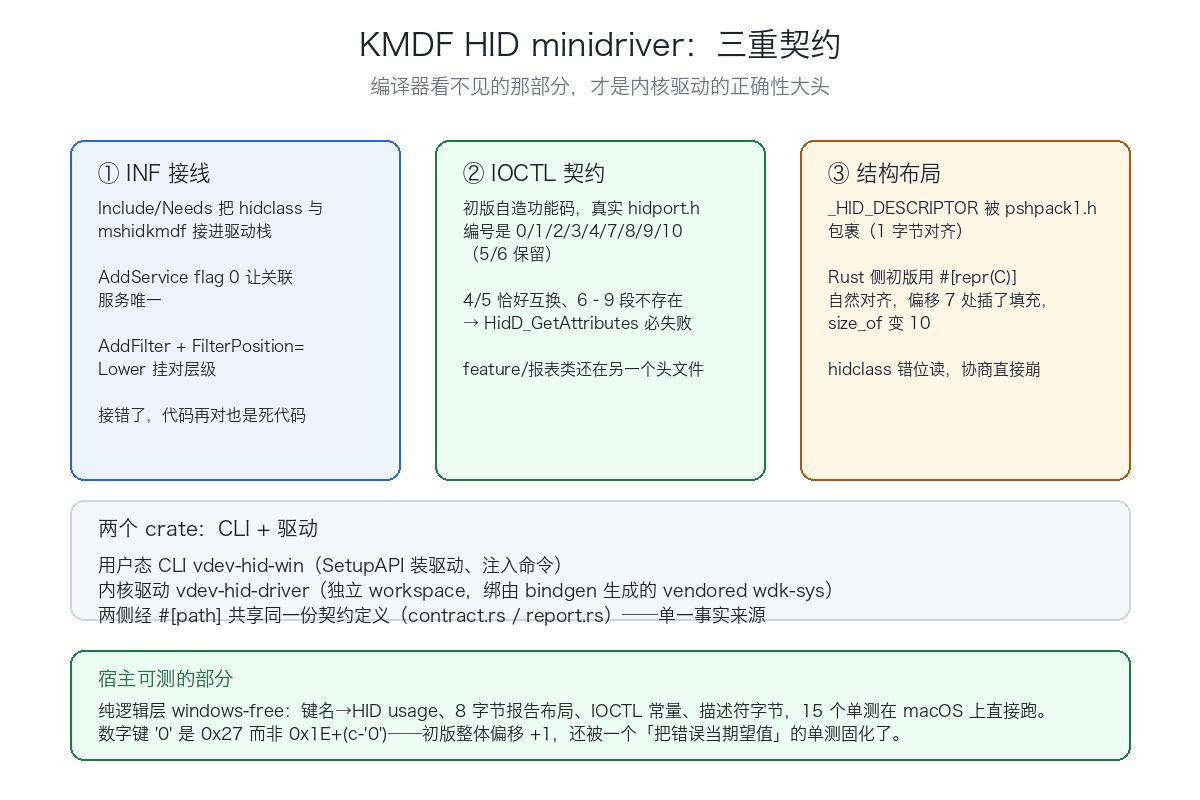
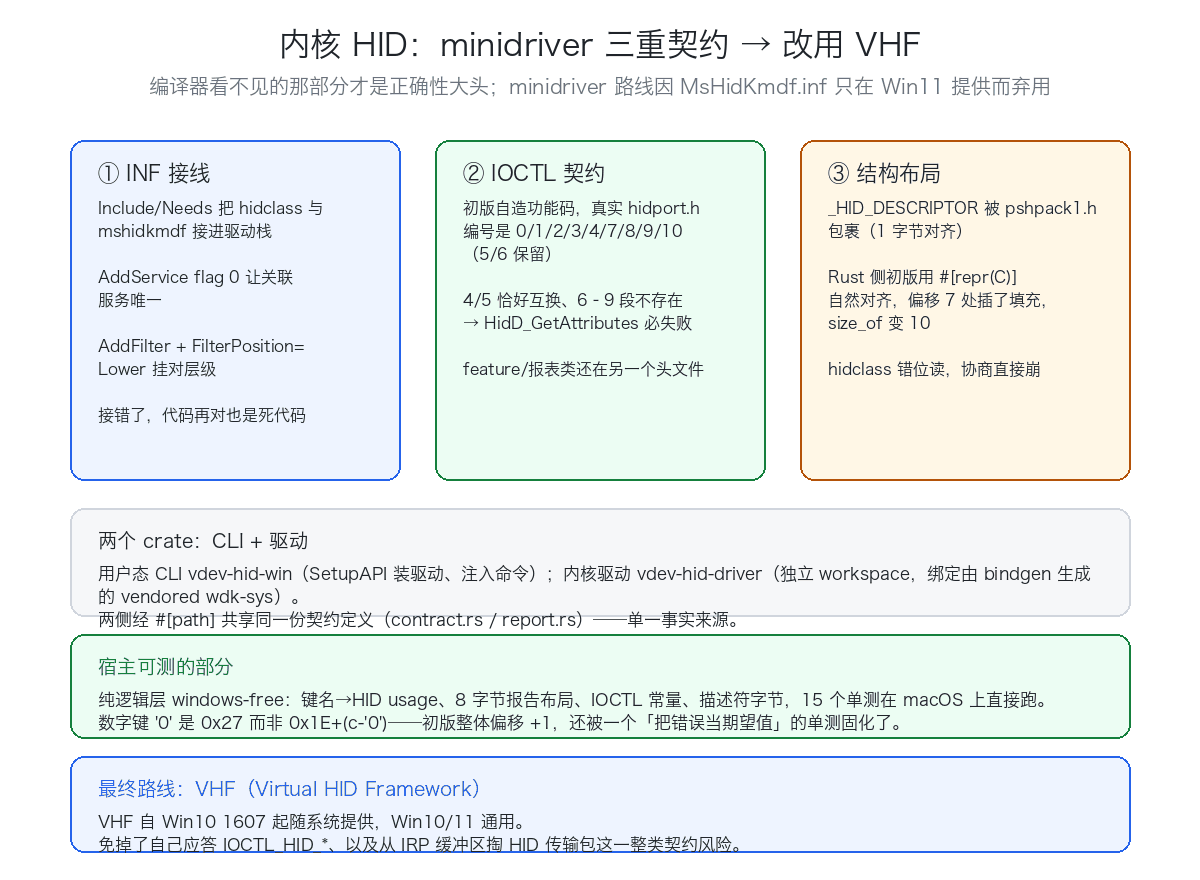
fix(docs): 修 README 未闭合代码围栏 + 补两处 KMDF→VHF 漏网
审查本 PR 时发现三类问题，都在文档侧：

1. **README 代码围栏未闭合（阻断）**：Windows 快速开始块的内容被误加 2 空格缩进，
   其中 L158 的闭合围栏也是缩进的 → 关不掉 L148 开的块；L163 又开一个缩进围栏、
   与 L165 配对后，L165 之后直到文件末尾再无围栏。净效果是文档导航表后 3 行、
   整条路线图、整个「内容与授权」章节都会被渲染成代码块。本次把 L123-165 的围栏与
   内容一律顶格，并修掉文档导航表（L177-179）与路线图（L187-193）里被误加的缩进。
   注意保留了合法的列表续行缩进（L190 是 L189 的续行、L199 是 L198 的续行）。

2. **微信稿 04 漏改**：`docs/publish/wechat/04-macos-virtual-hid.md` 仍写"Windows 侧的
   vdev-hid-win 提供了对照——KMDF 内核 HID minidriver"，该篇不在本 PR 的文件清单里，
   被漏掉了；已改为 VHF 口径（并补"Win10/11 通用"）。

3. **配图标题仍是旧口径**：HID 那篇的配图标题印着 "KMDF HID minidriver：三重契约"，
   而本书正文已把 minidriver 标为"已弃用路径、保留作对照"——读者会看到正文说 VHF、
   配图说 KMDF。改标题为「内核 HID：minidriver 三重契约 → 改用 VHF」并在图底补一条
   VHF 结论带（说明换路线的原因与收益），使其与正文"三重契约 + 一条选型约束"的定位一致；
   保留了三个契约卡（它们确实属 minidriver 路径，正文也是这么标注的）。

校验：README 围栏全部闭合且无缩进围栏；相关文件 KMDF 无残留（正文/标题/绘图脚本）；
9 篇微信稿结构全绿（无行号引用、围栏闭合、配图全部解析）。

diff --git a/docs/publish/images/src/gen_all.py b/docs/publish/images/src/gen_all.py
@@ -233,35 +233,37 @@ def windows_display():
 
 # ---------------------------------------------------------------- Windows HID
 def windows_hid():
-    W, H = 1200, 800
+    W, H = 1200, 880
     img, d = canvas(W, H)
-    title(d, W, "KMDF HID minidriver：三重契约", "编译器看不见的那部分，才是内核驱动的正确性大头")
+    title(d, W, "内核 HID：minidriver 三重契约 → 改用 VHF",
+          "编译器看不见的那部分才是正确性大头；minidriver 路线因 MsHidKmdf.inf 只在 Win11 提供而弃用")
 
     cards = [
         (70, "① INF 接线", BLUE_BG, BLUE,
          "Include/Needs 把 hidclass 与\nmshidkmdf 接进驱动栈\n\nAddService flag 0 让关联\n服务唯一\n\nAddFilter + FilterPosition=\nLower 挂对层级\n\n接错了，代码再对也是死代码"),
         (435, "② IOCTL 契约", GREEN_BG, GREEN,
-         "初版自造功能码，真实 hidport.h\n编号是 0/1/2/3/4/7/8/9/10\n（5/6 保留）\n\n4/5 恰好互换、6–9 段不存在\n→ HidD_GetAttributes 必失败\n\nfeature/报表类还在另一个头文件"), 
+         "初版自造功能码，真实 hidport.h\n编号是 0/1/2/3/4/7/8/9/10\n（5/6 保留）\n\n4/5 恰好互换、6–9 段不存在\n→ HidD_GetAttributes 必失败\n\nfeature/报表类还在另一个头文件"),
         (800, "③ 结构布局", AMBER_BG, AMBER,
          "_HID_DESCRIPTOR 被 pshpack1.h\n包裹（1 字节对齐）\n\nRust 侧初版用 #[repr(C)]\n自然对齐，偏移 7 处插了填充，\nsize_of 变 10\n\nhidclass 错位读，协商直接崩"),
     ]
     for x, head, bg, oc, body in cards:
-        card(d, x, 140, 330, 340, head, body, bg, oc, hs=23, bs=16)
+        card_fit(d, x, 140, 330, 340, head, body, bg, oc, hs=23, bs=16)
 
-    rbox(d, (70, 500, 1130, 620), GRAY_BG, BORDER, 2)
-    d.text((98, 518), "两个 crate：CLI + 驱动", font=font(22, True), fill=INK, anchor="la")
-    d.text((98, 556),
-           "用户态 CLI vdev-hid-win（SetupAPI 装驱动、注入命令）\n"
-           "内核驱动 vdev-hid-driver（独立 workspace，绑由 bindgen 生成的 vendored wdk-sys）\n"
-           "两侧经 #[path] 共享同一份契约定义（contract.rs / report.rs）——单一事实来源",
-           font=font(18), fill=INK, anchor="la", spacing=9)
+    card_fit(d, 70, 508, 1060, 108, "两个 crate：CLI + 驱动",
+         "用户态 CLI vdev-hid-win（SetupAPI 装驱动、注入命令）；内核驱动 vdev-hid-driver（独立 workspace，绑定由 bindgen 生成的 vendored wdk-sys）。\n"
+         "两侧经 #[path] 共享同一份契约定义（contract.rs / report.rs）——单一事实来源。",
+         GRAY_BG, BORDER, hs=21, bs=17)
 
-    rbox(d, (70, 650, 1130, 760), GREEN_BG, GREEN, 2)
-    d.text((98, 668), "宿主可测的部分", font=font(21, True), fill=GREEN, anchor="la")
-    d.text((98, 702),
-           "纯逻辑层 windows-free：键名→HID usage、8 字节报告布局、IOCTL 常量、描述符字节，15 个单测在 macOS 上直接跑。\n"
-           "数字键 '0' 是 0x27 而非 0x1E+(c-'0')——初版整体偏移 +1，还被一个「把错误当期望值」的单测固化了。",
-           font=font(17), fill=INK, anchor="la", spacing=8)
+    card_fit(d, 70, 634, 1060, 104, "宿主可测的部分",
+         "纯逻辑层 windows-free：键名→HID usage、8 字节报告布局、IOCTL 常量、描述符字节，15 个单测在 macOS 上直接跑。\n"
+         "数字键 '0' 是 0x27 而非 0x1E+(c-'0')——初版整体偏移 +1，还被一个「把错误当期望值」的单测固化了。",
+         GREEN_BG, GREEN, hs=21, bs=17, hcolor=GREEN)
+
+    card_fit(d, 70, 756, 1060, 96, "最终路线：VHF（Virtual HID Framework）",
+         "VHF 自 Win10 1607 起随系统提供，Win10/11 通用。\n"
+         "免掉了自己应答 IOCTL_HID_*、以及从 IRP 缓冲区掏 HID 传输包这一整类契约风险。",
+         BLUE_BG, BLUE, hs=21, bs=17, hcolor=BLUE)
+
     save(img, "windows-hid-01-contracts.png")
 
 

diff --git a/README.md b/README.md
@@ -127,42 +127,42 @@ cargo build --release
 .\target\release\vdev-camera-win.exe install
 ffmpeg -f dshow -list_devices true -i dummy     # 应看到 "vdev-camera"
 
-  # 显示器 / 声卡 / HID 驱动：需先签名（见下），再 install
-  vdev-display-win.exe install --inf-dir target\dist
-  vdev-display-win.exe add 1920x1080                      # 增删改查虚拟屏（需管理员）
-  vdev-display-win.exe list / set-mode 0 2560x1440@144 / remove 0
+# 显示器 / 声卡 / HID 驱动：需先签名（见下），再 install
+vdev-display-win.exe install --inf-dir target\dist
+vdev-display-win.exe add 1920x1080                      # 增删改查虚拟屏（需管理员）
+vdev-display-win.exe list / set-mode 0 2560x1440@144 / remove 0
 
-  # 虚拟声卡：装机后可直接注入 / 采集验证（一条命令跑环回自测）
-  cd crates\vdev-audio-win; cargo build --release
-  vdev-audio-win.exe inject --tone 1000 --amplitude 0.5 --duration 4   # 注入到「vdev 扬声器」
-  vdev-audio-win.exe capture --duration 6 --skip 4                     # 从「vdev 麦克风」采集并报电平
+# 虚拟声卡：装机后可直接注入 / 采集验证（一条命令跑环回自测）
+cd crates\vdev-audio-win; cargo build --release
+vdev-audio-win.exe inject --tone 1000 --amplitude 0.5 --duration 4   # 注入到「vdev 扬声器」
+vdev-audio-win.exe capture --duration 6 --skip 4                     # 从「vdev 麦克风」采集并报电平
 
-  # 内核 HID（VHF）：装好后即可注入
-  vdev-hid-win.exe kernel install && vdev-hid-win.exe kernel status
-  vdev-hid-win.exe kernel key a / vdev-hid-win.exe kernel mouse move 20 0
+# 内核 HID（VHF）：装好后即可注入
+vdev-hid-win.exe kernel install && vdev-hid-win.exe kernel status
+vdev-hid-win.exe kernel key a / vdev-hid-win.exe kernel mouse move 20 0
 ```
 
 驱动签名（一次性制备证书，Subject / FriendlyName 必须与 `crates/*/scripts/stage-sign*.ps1`
 的选择条件一致）：
 
 ```powershell
-  $cert = New-SelfSignedCertificate -Type CodeSigningCert `
-    -Subject "CN=vdev Virtual Display Driver" -FriendlyName "vdev-driver" `
-  -CertStoreLocation Cert:\CurrentUser\My -KeyExportPolicy Exportable `
-  -KeySpec Signature -KeyUsage DigitalSignature `
-  -TextExtension @("2.5.29.37={text}1.3.6.1.5.5.7.3.3")
+$cert = New-SelfSignedCertificate -Type CodeSigningCert `
+-Subject "CN=vdev Virtual Display Driver" -FriendlyName "vdev-driver" `
+-CertStoreLocation Cert:\CurrentUser\My -KeyExportPolicy Exportable `
+-KeySpec Signature -KeyUsage DigitalSignature `
+-TextExtension @("2.5.29.37={text}1.3.6.1.5.5.7.3.3")
 Export-Certificate -Cert $cert -FilePath vdev-cert.cer
-  certutil -addstore -f TrustedPublisher vdev-cert.cer     # 管理员
-  certutil -addstore -f Root vdev-cert.cer                 # 管理员
-  bcdedit /set testsigning on                              # 声卡 / 内核 HID 需要，重启生效
-  ```
+certutil -addstore -f TrustedPublisher vdev-cert.cer     # 管理员
+certutil -addstore -f Root vdev-cert.cer                 # 管理员
+bcdedit /set testsigning on                              # 声卡 / 内核 HID 需要，重启生效
+```
 
-  宿主 GUI（`vdev-app-win`）四个页签对应四类设备：摄像头推流、显示器增删、声卡注入/环回自测、
-  键鼠注入。它不直接调驱动，而是委托各 `*-win` CLI（找不到 exe 时设 `VDEV_*_EXE` 或放到同目录）：
+宿主 GUI（`vdev-app-win`）四个页签对应四类设备：摄像头推流、显示器增删、声卡注入/环回自测、
+键鼠注入。它不直接调驱动，而是委托各 `*-win` CLI（找不到 exe 时设 `VDEV_*_EXE` 或放到同目录）：
 
-  ```powershell
-  cd crates\vdev-app-win; cargo build --release; .\target\release\vdev-app-win.exe
-  ```
+```powershell
+cd crates\vdev-app-win; cargo build --release; .\target\release\vdev-app-win.exe
+```
 
 ## 文档导航
 
@@ -174,9 +174,9 @@ Export-Certificate -Cert $cert -FilePath vdev-cert.cer
 |---|---|
 | 快速了解项目能做什么 | [`docs/community/announcement-ai-mic.md`](docs/community/announcement-ai-mic.md) |
 | 各设备怎么写出来的（含踩坑） | [`docs/community/README.md`](docs/community/README.md)（系列总目录） |
-  | Windows 声卡（驱动/CLI/GUI/验收） | [`crates/vdev-audio-win/README.md`](crates/vdev-audio-win/README.md) |
-  | 显示器驱动构建/签名/CLI/验收 | [`crates/vdev-display-win/README.md`](crates/vdev-display-win/README.md) |
-  | 内核 HID（VHF）驱动构建/注入 | [`crates/vdev-hid-win/kernel/driver/README.md`](crates/vdev-hid-win/kernel/driver/README.md) |
+| Windows 声卡（驱动/CLI/GUI/验收） | [`crates/vdev-audio-win/README.md`](crates/vdev-audio-win/README.md) |
+| 显示器驱动构建/签名/CLI/验收 | [`crates/vdev-display-win/README.md`](crates/vdev-display-win/README.md) |
+| 内核 HID（VHF）驱动构建/注入 | [`crates/vdev-hid-win/kernel/driver/README.md`](crates/vdev-hid-win/kernel/driver/README.md) |
 | AI 虚拟麦克风 | [`crates/vdev-mic-agent/README.md`](crates/vdev-mic-agent/README.md) |
 | macOS 路线调研 / 选型过程 | [`docs/dev/`](docs/dev) |
 
@@ -184,13 +184,13 @@ Export-Certificate -Cert $cert -FilePath vdev-cert.cer
 
 - [x] macOS：HID / 屏幕 / 摄像头（CMIOExtension 全链路）/ 声卡 可用
 - [x] macOS：虚拟屏 + 摄像头串流 + SFU 端到端；设备侧滤镜（美颜 / 背景替换）
-  - [x] Windows：DirectShow 虚拟摄像头（用户态免签名）可用
-  - [x] Windows：IddCx UMDF 显示器 / PortCls WaveRT 声卡 / VHF 虚拟 HID —— 代码与门禁就绪
-  - [x] Windows：三驱动真机安装验证（测试签名）——显示器第二块屏、声卡端点可开流且环回有数据、
-        键鼠出现在设备管理器且实弹注入生效
-  - [x] Windows：CLI `inject`/`capture` 与 GUI「虚拟声卡」页（注入 + 一键环回自测）
-  - [ ] Windows：虚拟声卡环回固定延迟从 1.36s 调小（当前 = 1 MB 环形缓冲）
-  - [ ] 双平台 UI 宿主统一（`vdev-app` ↔ `vdev-app-win`）
+- [x] Windows：DirectShow 虚拟摄像头（用户态免签名）可用
+- [x] Windows：IddCx UMDF 显示器 / PortCls WaveRT 声卡 / VHF 虚拟 HID —— 代码与门禁就绪
+- [x] Windows：三驱动真机安装验证（测试签名）——显示器第二块屏、声卡端点可开流且环回有数据、
+  键鼠出现在设备管理器且实弹注入生效
+- [x] Windows：CLI `inject`/`capture` 与 GUI「虚拟声卡」页（注入 + 一键环回自测）
+- [ ] Windows：虚拟声卡环回固定延迟从 1.36s 调小（当前 = 1 MB 环形缓冲）
+- [ ] 双平台 UI 宿主统一（`vdev-app` ↔ `vdev-app-win`）
 
 ## 内容与授权
 

diff --git a/docs/publish/wechat/04-macos-virtual-hid.md b/docs/publish/wechat/04-macos-virtual-hid.md
@@ -284,7 +284,7 @@ vdev hid click 100 100 --button right # left / right / middle
 
 `vdev-hid` 是整个 vdev 里最"薄"的一个虚拟设备：400 行、一个依赖、零签名零安装，却是四件事里离"每个 macOS 开发者都用得上"最近的——自动化测试、CI 里的 UI 冒烟、远控转发，起点都是 `CGEventPost` 这一个函数。它也把虚拟设备系列的核心思路演得最直白：**先找操作系统在用户态留的正门，找不到才考虑驱动**。
 
-想继续深入的话：往"改写"方向走，把 listen 的 `TapAction::Pass` 换成改写逻辑，就是一个小 Karabiner（按键映射器）的骨架；往"真硬件级"方向走，Windows 侧的 `vdev-hid-win` 提供了对照——KMDF 内核 HID minidriver，从 HIDCLASS 层把虚拟设备注册成系统真件，系列另有专文。仓库里各路线的选型笔记见 `docs/dev/macos-route-ideas.md`，全套文章索引见 vdev 仓库。
+想继续深入的话：往"改写"方向走，把 listen 的 `TapAction::Pass` 换成改写逻辑，就是一个小 Karabiner（按键映射器）的骨架；往"真硬件级"方向走，Windows 侧的 `vdev-hid-win` 提供了对照——VHF（Virtual HID Framework）内核虚拟 HID 驱动，从 HID 类驱动层把虚拟设备注册成系统真件，Win10/11 通用，系列另有专文。仓库里各路线的选型笔记见 `docs/dev/macos-route-ideas.md`，全套文章索引见 vdev 仓库。
 
 如果本文帮到了你，欢迎到 vdev 仓库 点个 star，或在 issue 里聊聊你想看的下一篇。
 
